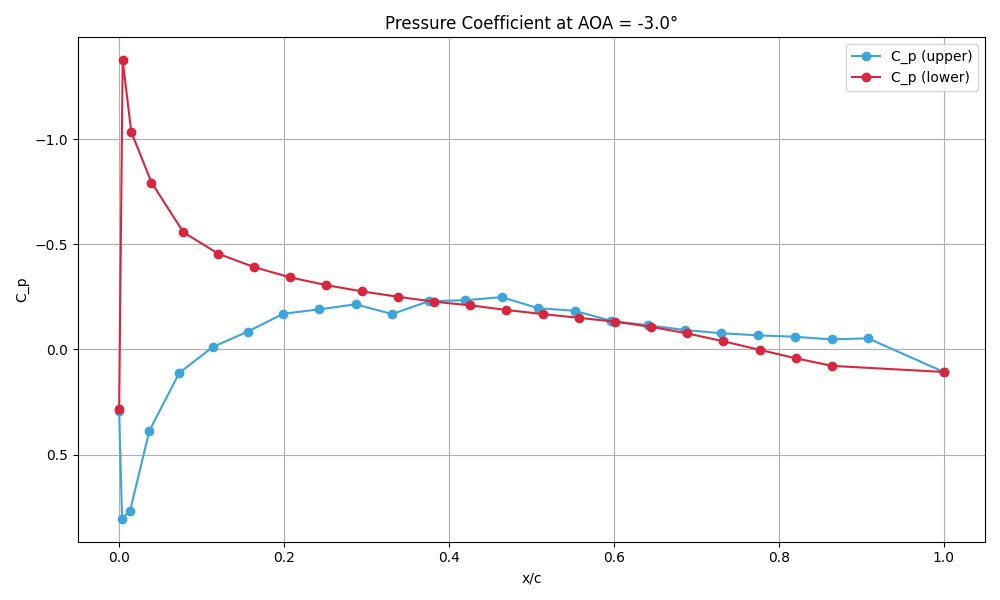
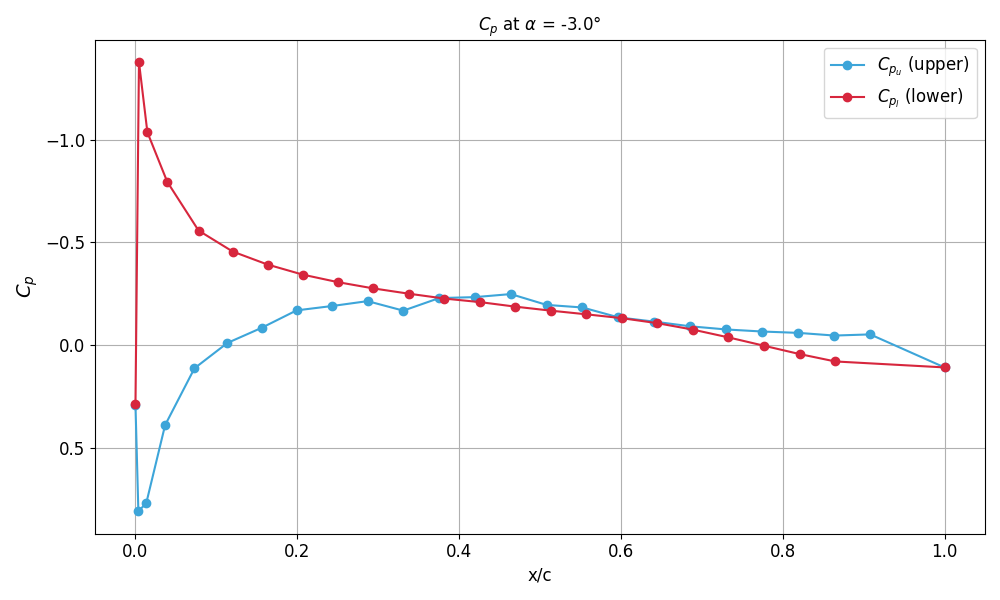
update

diff --git a/2D.py b/2D.py
@@ -94,18 +94,26 @@ def getCp(AOA, plot = False):
     # Plot Cp
     if(plot):
         plt.figure(figsize=(10, 6))
-        plt.plot(probe_positions_u, C_pu, label='C_p (upper)', marker='o', color='#3DA5D9')
-        plt.plot(probe_positions_l, C_pl, label='C_p (lower)', marker='o', color='#D7263D')
-        plt.xlabel('x/c')
-        plt.ylabel('C_p')
+        plt.plot(probe_positions_u, C_pu, label=r"$C_{p_u}$" + ' (upper)', marker='o', color='#3DA5D9')
+        plt.plot(probe_positions_l, C_pl, label=r"$C_{p_l}$" + ' (lower)', marker='o', color='#D7263D')
+        plt.tick_params(axis='both', labelsize=12)
+        plt.xlabel('x/c', fontsize = 12)
+        plt.ylabel(r"$C_p$", fontsize = 14)
         plt.gca().invert_yaxis()
-        plt.title(f'Pressure Coefficient at AOA = {AOA}°')
-        plt.legend()
+        plt.title(r"$C_p$" + " at " + r"$\alpha$" + f' = {AOA}°')
+        plt.legend(fontsize = 12)
         plt.grid(True)
         plt.tight_layout()
         plt.show()
 
     return C_pu, C_pl
+
+getCp(-6.0, True)
+getCp(-3.0, True)
+getCp(-1.0, True)
+getCp(1.0, True)
+getCp(3.0, True)
+getCp(6.0, True)
 
 def getCn(AOA):
     if(getCp(AOA) == None):
@@ -135,7 +143,7 @@ def getCm(AOA):
     integral_lower = np.trapz(C_pl * probe_positions_l, probe_positions_l)
 
     # Compute pitching moment coefficient
-    C_m = integral_lower - integral_upper
+    C_m = -integral_upper + integral_lower
 
     #print(f"Pitching Moment Coefficient (C_m): {C_m:.4f}, AOA: {AOA}")
     return C_m
@@ -186,17 +194,25 @@ def getVelocityProfile(AOA, plot = False):
     # Plot velocity profile
     if(plot):
         plt.figure(figsize=(10, 6))
-        plt.plot(restricted_positions, velocities, label='Velocity (m/s)', marker='o', color='#3DA5D9')
-        plt.axhline(V_inf, color='#50514F', linestyle='--', label='Free-stream Velocity')
-        plt.xlabel('Transverse Axis (y)')
-        plt.ylabel('Velocity (m/s)')
-        plt.title(f'Velocity Profile at AOA = {AOA}° (Within Static Probe Range)')
-        plt.legend()
+        plt.plot(restricted_positions, velocities, label='u', marker='o', color='#3DA5D9')
+        plt.axhline(V_inf, color='#50514F', linestyle='--', label=r"$u_\infty$")
+        plt.xlabel('y (transverse axis)', fontsize = 12)
+        plt.ylabel('u (m/s)', fontsize = 12)
+        plt.title("Velocity Profile at " + r"$\alpha$" + f' = {AOA}° (Within Static Probe Range)')
+        plt.legend(fontsize = 12)
+        plt.tick_params(axis='both', labelsize=12)
         plt.grid(True)
         plt.tight_layout()
         plt.show()
 
     return velocities, velocity_deficit, restricted_positions
+
+getVelocityProfile(-6.0, True)
+getVelocityProfile(-3.0, True)
+getVelocityProfile(-1.0, True)
+getVelocityProfile(1.0, True)
+getVelocityProfile(3.0, True)
+getVelocityProfile(6.0, True)
 
 def getCt(AOA):
     """
@@ -226,20 +242,20 @@ def getCt(AOA):
 
     # Compute local angles (theta) for upper and lower surfaces
     theta_upper = np.arctan(dy_dx_upper)
-    theta_lower = np.arctan(dy_dx_lower)
+    theta_lower = - np.arctan(dy_dx_lower) # make sure that there is a correct drag contribution direction on the lower side
 
     # Interpolate theta arrays to match probe positions
     interp_theta_upper = np.interp(probe_positions_u, x_upper, theta_upper)
     interp_theta_lower = np.interp(probe_positions_l, x_lower, theta_lower)
 
-    print(interp_theta_upper)
+    print(interp_theta_lower)
 
     # Calculate tangential force coefficient using trapezoidal integration
-    Ct_upper = np.trapz(C_pu * np.cos(interp_theta_upper), probe_positions_u)
-    Ct_lower = np.trapz(C_pl * np.cos(interp_theta_lower), probe_positions_l)
+    Ct_upper = np.trapz(C_pu * np.cos(np.pi/4 - interp_theta_upper), probe_positions_u)
+    Ct_lower = np.trapz(C_pl * np.cos(np.pi/4 - interp_theta_lower), probe_positions_l)
 
     # Total tangential force coefficient
-    C_t = - (Ct_upper + Ct_lower)
+    C_t =  -(Ct_upper + Ct_lower)
 
     return C_t
 
@@ -302,7 +318,7 @@ def getCdWake(AOA):
     #print(f"Drag Coefficient (C_d) from Wake: {C_d:.4f}, AOA: {AOA}")
     return C_d
 
-def plotVsAOA(aoa_range, coeff_function, coeff_label, y_label, title):
+def plotVsAOA(aoa_range, coeff_function, coeff_label, y_label, title, colorHex = '#3DA5D9'):
     """
     Universal plotting function to calculate and plot coefficients against angle of attack.
     
@@ -326,12 +342,13 @@ def plotVsAOA(aoa_range, coeff_function, coeff_label, y_label, title):
 
     # Plot the coefficient vs AOA
     plt.figure(figsize=(10, 6))
-    plt.plot(aoa_values, coeff_values, label=coeff_label, marker="o", color='#3DA5D9')
-    plt.xlabel("Angle of Attack (°)")
-    plt.ylabel(y_label)
+    plt.plot(aoa_values, coeff_values, label=coeff_label, marker="o", color=colorHex)
+    plt.tick_params(axis='both', labelsize=12)
+    plt.xlabel(r"$\alpha$" + " (°)", fontsize = 14)
+    plt.ylabel(y_label, fontsize = 14)
     plt.title(title)
     plt.grid(True)
-    plt.legend()
+    plt.legend(fontsize = 12)
     plt.tight_layout()
     plt.show()
 
@@ -339,16 +356,16 @@ def plotVsAOA(aoa_range, coeff_function, coeff_label, y_label, title):
 aoa_range = range(-15, 16)  # AOAs from -15 to 15 degrees
 
 # Plot C_n
-plotVsAOA(aoa_range, getCn, "C_n", "C_n", "Normal Force Coefficient (C_n) vs Angle of Attack")
+plotVsAOA(aoa_range, getCn, r"$C_n$", r"$C_n$", "Normal Force Coefficient " + r"$C_n$" + " vs " + r"$\alpha$" + " (°)", '#000000')
 
 # Plot C_m
-plotVsAOA(aoa_range, getCm, "C_m", "C_m", "Moment Coefficient (C_m) vs Angle of Attack")
+plotVsAOA(aoa_range, getCm, r"$C_m$", r"$C_m$", "Moment Coefficient " + r"$C_m$" + " vs " + r"$\alpha$" + " (°)", '#6D326D')
 
 # Plot C_t
-plotVsAOA(aoa_range, getCt, "C_t", "C_t", "Tangential Force Coefficient (C_t) vs Angle of Attack")
+plotVsAOA(aoa_range, getCt, r"$C_t$", r"$C_t$", "Tangential Force Coefficient " + r"$C_t$" + " vs " + r"$\alpha$" + " (°)", '#5B8C5A')
 
 # If C_l and C_d are defined:
-plotVsAOA(aoa_range, getClPres, "C_l", "C_l", "Lift Coefficient (C_l) vs Angle of Attack")
-plotVsAOA(aoa_range, getCdPres, "C_d", "C_d", "Drag Coefficient (C_d) vs Angle of Attack")
+plotVsAOA(aoa_range, getClPres, r"$C_l$", r"$C_l$", "Lift Coefficient " + r"$C_l$" + " vs " + r"$\alpha$" + " (°)", '#125E8A')
+plotVsAOA(aoa_range, getCdPres, r"$C_d$", r"$C_d$", "Drag Coefficient (from pressure taps) " + r"$C_d$" + " vs " + r"$\alpha$" + " (°)", '#DD1C1A')
 
-plotVsAOA(aoa_range, getCdWake, "C_d", "C_d", "C_d wake")
+plotVsAOA(aoa_range, getCdWake, r"$C_d$", r"$C_d$", "Drag Coefficient (from wake) " + r"$C_d$" + " vs " + r"$\alpha$" + " (°)", '#DD1C1A')
